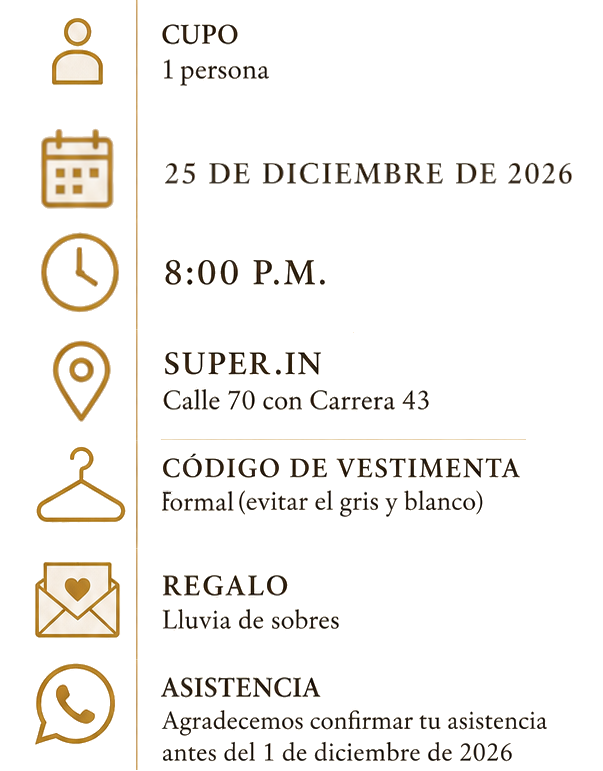
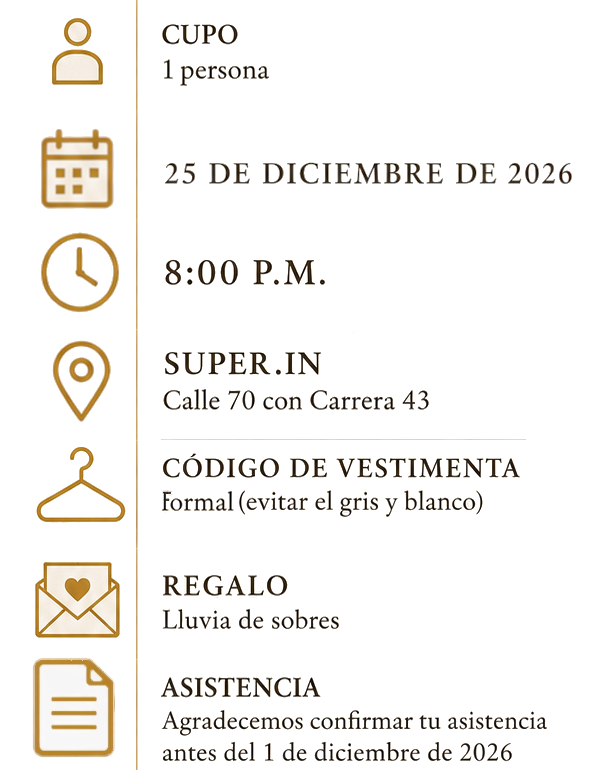
formulario

Changed region(s): [[0.0299, 0.8405, 0.209, 0.9961]]

diff --git a/recursos/scriptInvitacion.js b/recursos/scriptInvitacion.js
@@ -34,6 +34,7 @@ document.body.onload = function inicio() {
   let nombreInvitado= document.getElementById("nombreInvitado");
   let detallesCupo1 = document.getElementById("detallesCupo1");
   let detallesCupo2 = document.getElementById("detallesCupo2");
+  let click = document.getElementById("click");
   let anillos = document.getElementById("anillos");   
   let esqInfInvitacion = document.getElementById("esqInfInvitacion");
   let masDetalles = document.getElementById("masDetalles");
@@ -53,6 +54,7 @@ document.body.onload = function inicio() {
   detallesCupo1.style.opacity = "0"; // en la seccion "fondoInvitacion" se altera la propiedad css width
   detallesCupo2.style.opacity = "0"; // en la seccion "fondoInvitacion" se altera la propiedad css width
   anillos.style.opacity = "0"; // en la seccion "fondoInvitacion" se altera la propiedad css width
+  click.style.opacity = "0"; // en la seccion "fondoInvitacion" se altera la propiedad css width
   esqInfInvitacion.style.opacity = "0"; // en la seccion "fondoInvitacion" se altera la propiedad css width
   masDetalles.style.opacity = "0"; // en la seccion "fondoInvitacion" se altera la propiedad css width
 
@@ -155,7 +157,8 @@ function masDetalles() {
       } 
      if (800<=tiempo && tiempo<=2000) {
       detallesCupo.style.opacity = (tiempo-800)/1200; // en la seccion "fondoInvitacion" se altera la propiedad css width
-     }
+      click.style.opacity = (tiempo-800)/1400; // en la seccion "fondoInvitacion" se altera la propiedad css width
+    }
     }
    masMenosDetalles = "0";
   }
@@ -178,6 +181,7 @@ function masDetalles() {
       
      if (0<=tiempo && tiempo<=1200) {
        detallesCupo.style.opacity = 1-(tiempo/1200); // en la seccion "fondoInvitacion" se altera la propiedad css width
+       click.style.opacity = 1-(tiempo/1200); // en la seccion "fondoInvitacion" se altera la propiedad css width
      } 
      if (800<=tiempo && tiempo<=2000) {
       palabrasDeInvitacion.style.opacity = (tiempo-800)/1200; // en la seccion "fondoInvitacion" se altera la propiedad css width

diff --git a/recursos/estilos.css b/recursos/estilos.css
@@ -150,6 +150,7 @@ html, body { /*afecta a todo el cuerpo del documento*/
 .link2{ /*afecta a la seccion link*/
     bottom: 1dvh; /* define la distancia del link con respecto al borde inferior de la pantalla */
     font-family: "fuente"; /*define el tipo de fuente*/
+    font-size: 20px; /*define el tamaño de fuente*/
     text-decoration: none; /*le quita el subrayado al link*/
     color: #7f6000; /*define el color de fuente*/
     background:transparent; /*define el color de fondo*/
@@ -406,4 +407,12 @@ html, body { /*afecta a todo el cuerpo del documento*/
     top: 50%;
     transform:translate(0%, -50%);  
     z-index: 3;    
+}
+#click{ /*afecta a la seccion fondoInvitacion*/
+    width: 50vw;
+    position: absolute; /*Se posiciona en la ultima parte de atras*/
+    left: 50%;
+    top: 50%;
+    transform:translate(-110%, 40%);  
+    z-index: 4;    
 }

diff --git a/invitacion.html b/invitacion.html
@@ -47,6 +47,9 @@
          </div>
          <img src="recursos/Invitacion/detallesCupo1.png" alt="Detalles invitacion cupo 1" id="detallesCupo1">
          <img src="recursos/Invitacion/detallesCupo2.png" alt="Detalles invitacion cupo 2" id="detallesCupo2">
+         <a href="https://docs.google.com/forms/d/e/1FAIpQLScWdpU8puosu6E_gIGcu-aw--55g3IZR17Uhw5hL1EbW7N9Ow/viewform?usp=preview">
+         <img src="recursos/Invitacion/click.gif" alt="click" id="click" >
+         </a>
          <img src="recursos/Invitacion/anillos.png" alt="Anillos" id="anillos">
          <img src="recursos/Invitacion/esquinaInvitacionInf.png" alt="Esquina Inferior" id="esqInfInvitacion">
          <img src="recursos/Invitacion/masDetalles.png" alt="Boton Mas Detalles" onclick="masDetalles()" id="masDetalles">
